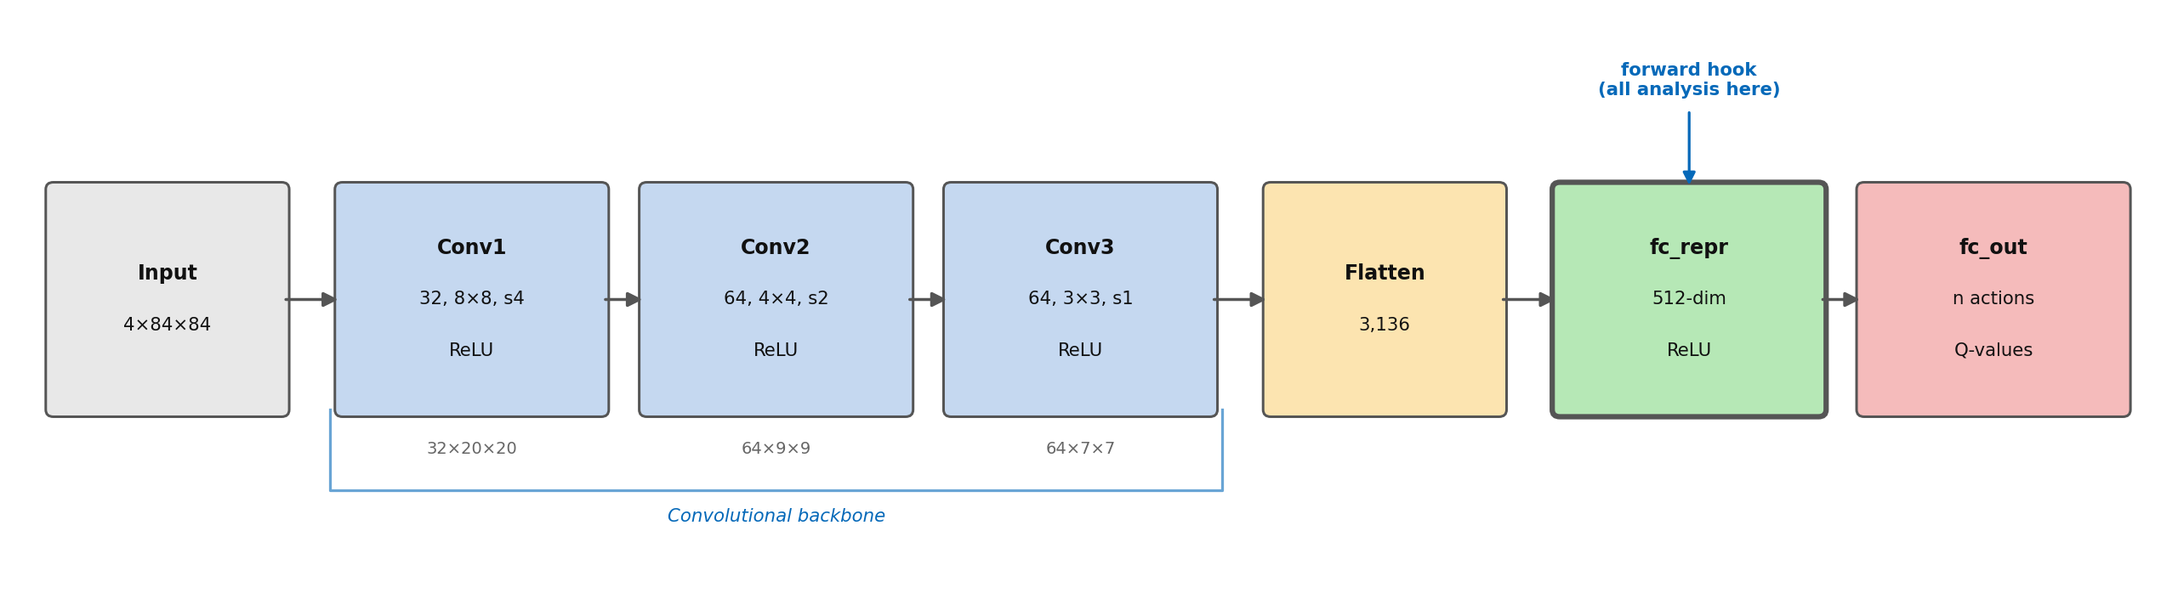
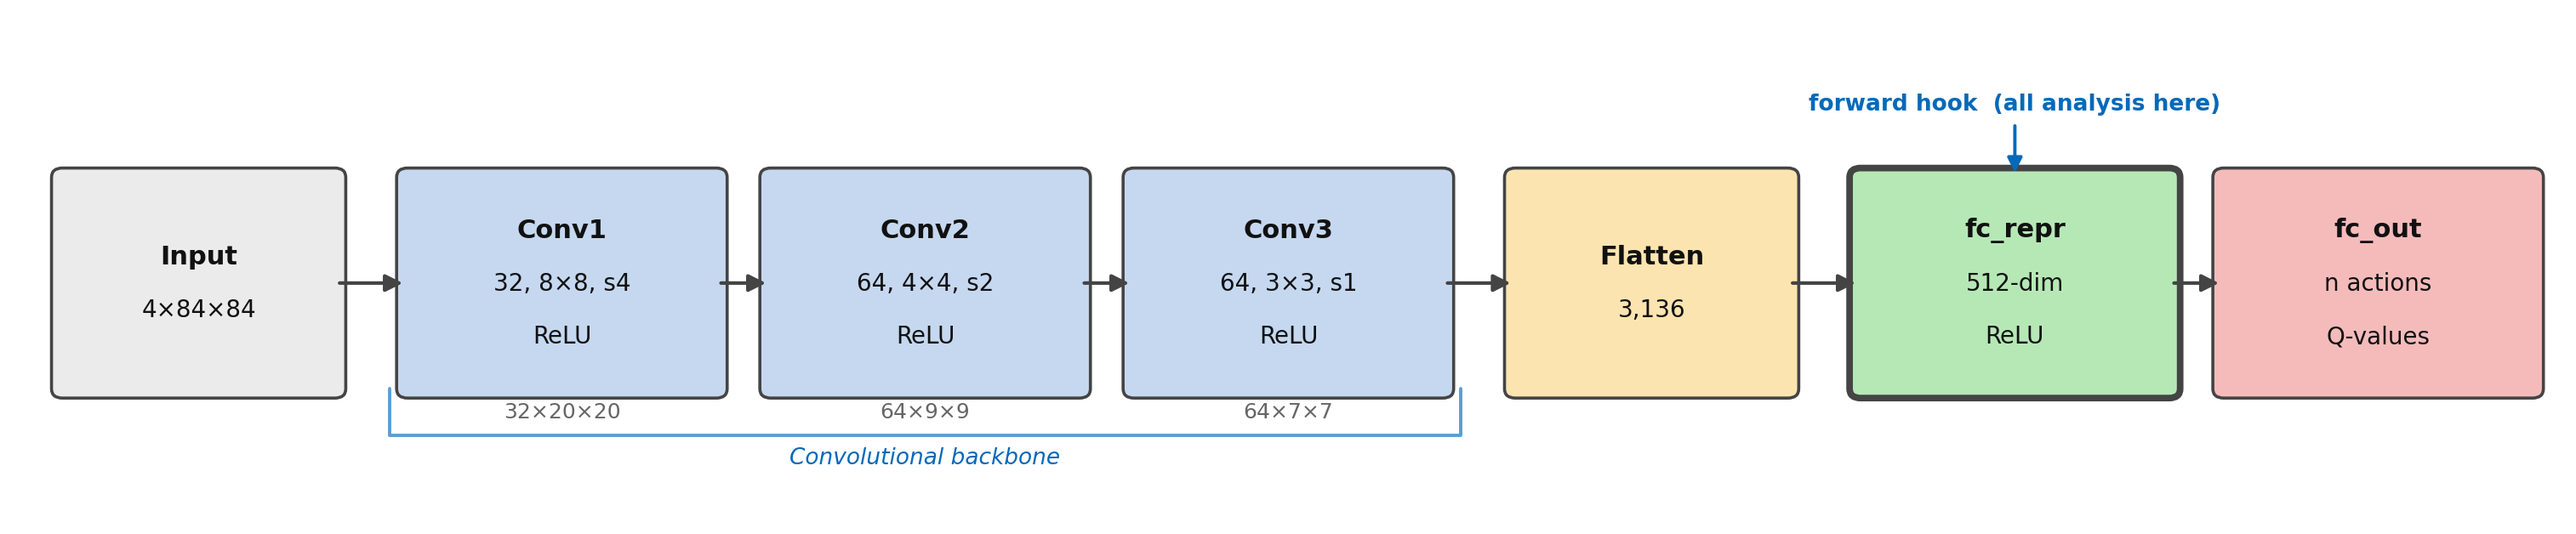
Tighten architecture diagram: larger fonts, compact proportions
Increased box font sizes (10-11pt), reduced box height, tightened
forward hook annotation, reduced overall figure height to 3.0.

diff --git a/analysis/plot_architecture.py b/analysis/plot_architecture.py
@@ -8,103 +8,105 @@ import matplotlib.pyplot as plt
 import matplotlib.patches as mpatches
 from matplotlib.patches import FancyArrowPatch, FancyBboxPatch
 
-fig, ax = plt.subplots(figsize=(14, 3.8))
+fig, ax = plt.subplots(figsize=(15, 3.0))
 ax.set_xlim(0, 14)
-ax.set_ylim(0, 4)
+ax.set_ylim(0, 3.2)
 ax.axis("off")
 
-# ── colour palette ─────────────────────────────────────────────────────────
-C_INPUT  = "#E8E8E8"
-C_CONV   = "#C5D8F0"
-C_FLAT   = "#FCE4B0"
-C_REPR   = "#B6E8B6"
-C_OUT    = "#F5BBBB"
-BORDER   = "#555555"
-BLUE     = "#0569B9"
+# ── colour palette ────────────────────────────────────────────────────────
+C_INPUT = "#EBEBEB"
+C_CONV  = "#C5D8F0"
+C_FLAT  = "#FCE4B0"
+C_REPR  = "#B6E8B6"
+C_OUT   = "#F5BBBB"
+BORDER  = "#444444"
+BLUE    = "#0569B9"
 
-# ── layer definitions  [x_centre, label_lines, fill, width] ────────────────
+# ── layer definitions [x_centre, label_lines, fill, width] ───────────────
 layers = [
-    (1.0,  ["Input", "4×84×84"],                          C_INPUT, 1.5),
-    (3.0,  ["Conv1", "32, 8×8, s4", "ReLU"],              C_CONV,  1.7),
-    (5.0,  ["Conv2", "64, 4×4, s2", "ReLU"],              C_CONV,  1.7),
-    (7.0,  ["Conv3", "64, 3×3, s1", "ReLU"],              C_CONV,  1.7),
-    (9.0,  ["Flatten", "3,136"],                           C_FLAT,  1.5),
-    (11.0, ["fc_repr", "512-dim", "ReLU"],                 C_REPR,  1.7),
-    (13.0, ["fc_out", "n actions", "Q-values"],            C_OUT,   1.7),
+    (1.0,  ["Input", "4×84×84"],              C_INPUT, 1.5),
+    (3.0,  ["Conv1", "32, 8×8, s4", "ReLU"],  C_CONV,  1.7),
+    (5.0,  ["Conv2", "64, 4×4, s2", "ReLU"],  C_CONV,  1.7),
+    (7.0,  ["Conv3", "64, 3×3, s1", "ReLU"],  C_CONV,  1.7),
+    (9.0,  ["Flatten", "3,136"],               C_FLAT,  1.5),
+    (11.0, ["fc_repr", "512-dim", "ReLU"],     C_REPR,  1.7),
+    (13.0, ["fc_out", "n actions", "Q-values"],C_OUT,   1.7),
 ]
 
-BOX_H   = 1.55
-BOX_Y   = (4 - BOX_H) / 2       # vertically centred
+BOX_H = 1.35
+BOX_Y = 0.82       # leave room below for bracket, above for hook
 
 node_positions = {}
 
 for x, lines, fill, w in layers:
     x0 = x - w / 2
-    lw = 2.5 if fill == C_REPR else 1.2
+    lw = 2.8 if fill == C_REPR else 1.3
     box = FancyBboxPatch((x0, BOX_Y), w, BOX_H,
-                         boxstyle="round,pad=0.05",
-                         facecolor=fill, edgecolor=BORDER, linewidth=lw,
-                         zorder=3)
+                         boxstyle="round,pad=0.06",
+                         facecolor=fill, edgecolor=BORDER,
+                         linewidth=lw, zorder=3)
     ax.add_patch(box)
 
-    # text inside box
     n = len(lines)
+    spacing = 0.34
     for i, line in enumerate(lines):
-        yoff = BOX_Y + BOX_H/2 + (n/2 - i - 0.5) * 0.36
+        yoff = BOX_Y + BOX_H/2 + ((n - 1)/2 - i) * spacing
         bold = (i == 0)
         ax.text(x, yoff, line,
                 ha="center", va="center",
-                fontsize=9.5 if bold else 8.5,
+                fontsize=11 if bold else 10,
                 fontweight="bold" if bold else "normal",
                 color="#111111", zorder=4)
 
     node_positions[x] = (x0, x0 + w)
 
-# ── arrows between boxes ──────────────────────────────────────────────────
+# ── arrows ────────────────────────────────────────────────────────────────
 mid_y = BOX_Y + BOX_H / 2
 xs = [l[0] for l in layers]
 for i in range(len(xs) - 1):
-    x_start = node_positions[xs[i]][1]     # right edge of current
-    x_end   = node_positions[xs[i+1]][0]   # left edge of next
+    x_start = node_positions[xs[i]][1]
+    x_end   = node_positions[xs[i+1]][0]
     ax.annotate("",
         xy=(x_end, mid_y), xytext=(x_start, mid_y),
         arrowprops=dict(arrowstyle="-|>", color=BORDER,
-                        lw=1.4, mutation_scale=14),
+                        lw=1.5, mutation_scale=15),
         zorder=5)
 
 # ── output size labels below conv nodes ──────────────────────────────────
 size_labels = {3.0: "32×20×20", 5.0: "64×9×9", 7.0: "64×7×7"}
 for x, lbl in size_labels.items():
-    ax.text(x, BOX_Y - 0.22, lbl, ha="center", va="top",
-            fontsize=7.8, color="#666666")
+    ax.text(x, BOX_Y - 0.08, lbl, ha="center", va="top",
+            fontsize=9, color="#666666")
 
-# ── forward hook annotation above fc_repr ────────────────────────────────
-hook_x = 11.0
-hook_top = BOX_Y + BOX_H + 0.12
+# ── forward hook annotation above fc_repr (compact) ──────────────────────
+hook_x   = 11.0
+hook_bot = BOX_Y + BOX_H
+hook_top = hook_bot + 0.28
 ax.annotate("",
-    xy=(hook_x, BOX_Y + BOX_H),
-    xytext=(hook_x, hook_top + 0.45),
-    arrowprops=dict(arrowstyle="-|>", color=BLUE, lw=1.3,
-                    mutation_scale=12))
-ax.text(hook_x, hook_top + 0.52, "forward hook\n(all analysis here)",
-        ha="center", va="bottom", fontsize=8.5,
-        color=BLUE, fontweight="bold")
+    xy=(hook_x, hook_bot),
+    xytext=(hook_x, hook_top + 0.08),
+    arrowprops=dict(arrowstyle="-|>", color=BLUE,
+                    lw=1.4, mutation_scale=13))
+ax.text(hook_x, hook_top + 0.12,
+        "forward hook  (all analysis here)",
+        ha="center", va="bottom",
+        fontsize=9.5, color=BLUE, fontweight="bold")
 
 # ── backbone bracket ──────────────────────────────────────────────────────
-bx0 = node_positions[3.0][0] - 0.08
-bx1 = node_positions[7.0][1] + 0.08
-by0 = BOX_Y - 0.45
-bracket_y = by0 - 0.12
+bx0 = node_positions[3.0][0] - 0.10
+bx1 = node_positions[7.0][1] + 0.10
+bk_y = BOX_Y - 0.30
+tick = 0.10
 ax.plot([bx0, bx0, bx1, bx1],
-        [BOX_Y, bracket_y, bracket_y, BOX_Y],
-        color=BLUE, lw=1.3, alpha=0.6)
-ax.text((bx0 + bx1) / 2, bracket_y - 0.12,
+        [BOX_Y, bk_y, bk_y, BOX_Y],
+        color=BLUE, lw=1.4, alpha=0.65, solid_capstyle="round")
+ax.text((bx0 + bx1) / 2, bk_y - 0.07,
         "Convolutional backbone",
-        ha="center", va="top", fontsize=8.5,
-        color=BLUE, fontstyle="italic")
+        ha="center", va="top",
+        fontsize=9.5, color=BLUE, fontstyle="italic")
 
-plt.tight_layout(pad=0.3)
+plt.tight_layout(pad=0.2)
 out = "results/plots/architecture.png"
-fig.savefig(out, dpi=180, bbox_inches="tight")
+fig.savefig(out, dpi=200, bbox_inches="tight")
 plt.close(fig)
 print(f"[saved] {out}")
